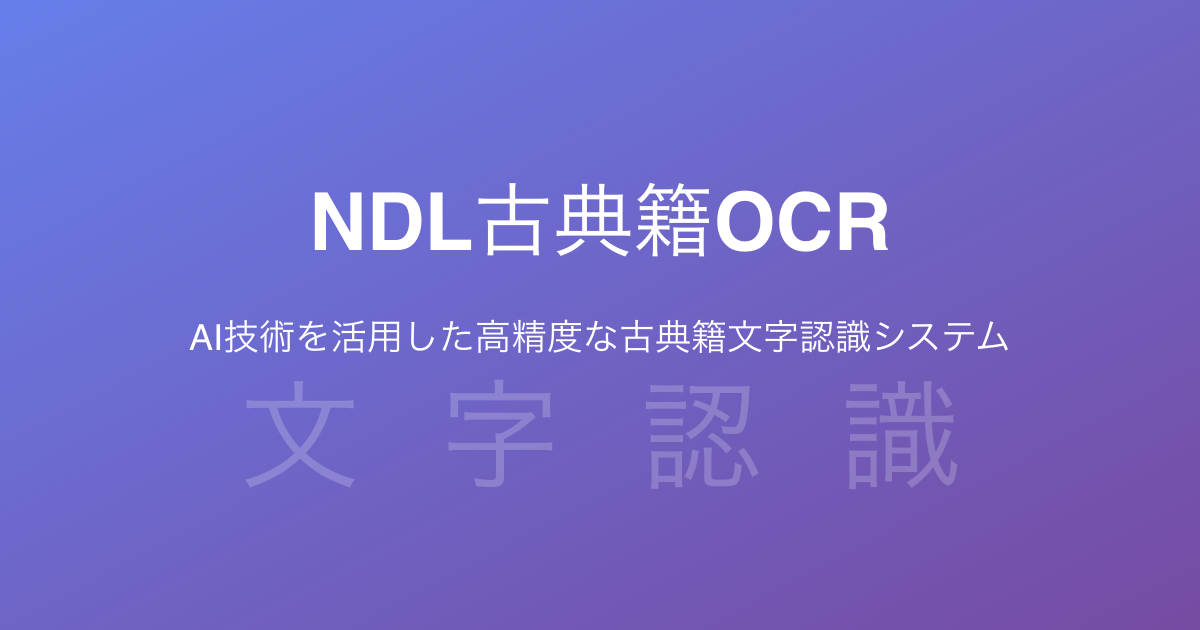
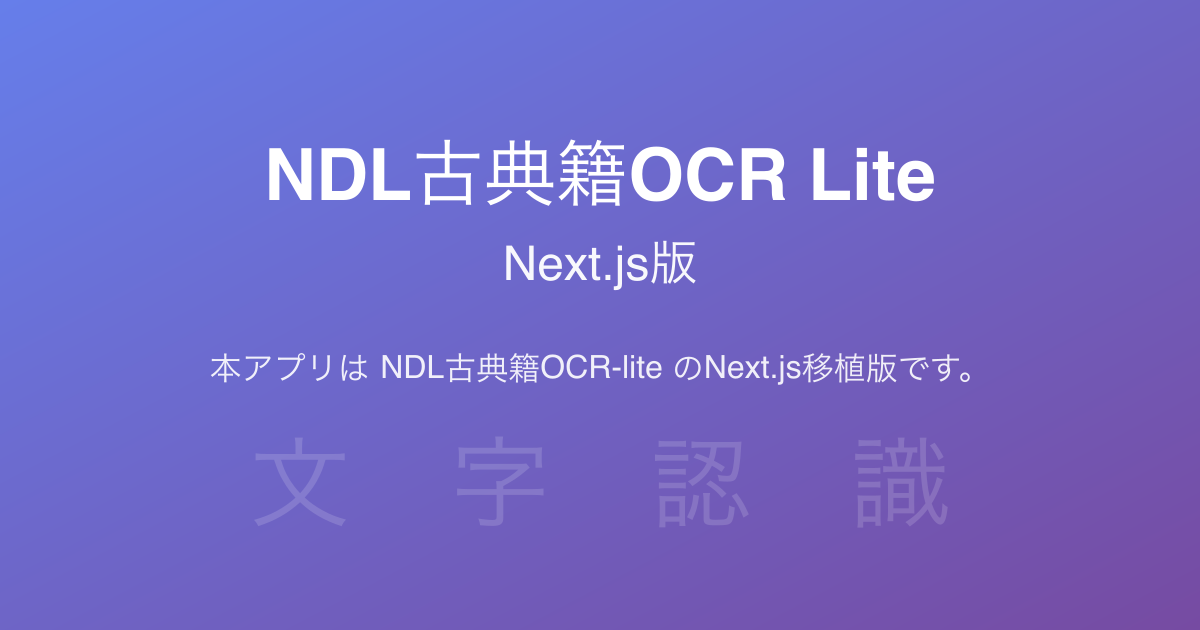
Update OGP and Twitter Card metadata
- Update title to "NDL古典籍OCR Lite Next.js版"
- Update description to "本アプリは NDL古典籍OCR-lite のNext.js移植版です。"
- Update English title to "NDL Koten OCR Lite Next.js Edition"
- Update English description to "This app is a Next.js port of NDL Koten OCR-lite."
- Fix siteName in OpenGraph to use consistent title
- Set Twitter card type to summary_large_image
- Set Twitter site and creator to @NDLJP
- Regenerate OG image with updated text

🤖 Generated with [Claude Code](https://claude.ai/code)

diff --git a/apps/web/scripts/generate-icons-simple.js b/apps/web/scripts/generate-icons-simple.js
@@ -47,13 +47,14 @@ async function generateIcons() {
     </linearGradient>
   </defs>
   <rect width="1200" height="630" fill="url(#gradient)"/>
-  <text x="600" y="250" font-family="sans-serif" font-size="80" font-weight="bold" text-anchor="middle" fill="white">NDL古典籍OCR</text>
-  <text x="600" y="350" font-family="sans-serif" font-size="36" text-anchor="middle" fill="white">AI技術を活用した高精度な古典籍文字認識システム</text>
-  <g opacity="0.2">
-    <text x="300" y="480" font-family="sans-serif" font-size="120" font-weight="bold" text-anchor="middle" fill="white">文</text>
-    <text x="500" y="480" font-family="sans-serif" font-size="120" font-weight="bold" text-anchor="middle" fill="white">字</text>
-    <text x="700" y="480" font-family="sans-serif" font-size="120" font-weight="bold" text-anchor="middle" fill="white">認</text>
-    <text x="900" y="480" font-family="sans-serif" font-size="120" font-weight="bold" text-anchor="middle" fill="white">識</text>
+  <text x="600" y="200" font-family="sans-serif" font-size="72" font-weight="bold" text-anchor="middle" fill="white">NDL古典籍OCR Lite</text>
+  <text x="600" y="280" font-family="sans-serif" font-size="48" text-anchor="middle" fill="rgba(255,255,255,0.95)">Next.js版</text>
+  <text x="600" y="380" font-family="sans-serif" font-size="32" text-anchor="middle" fill="rgba(255,255,255,0.9)">本アプリは NDL古典籍OCR-lite のNext.js移植版です。</text>
+  <g opacity="0.15">
+    <text x="300" y="520" font-family="sans-serif" font-size="100" font-weight="bold" text-anchor="middle" fill="white">文</text>
+    <text x="500" y="520" font-family="sans-serif" font-size="100" font-weight="bold" text-anchor="middle" fill="white">字</text>
+    <text x="700" y="520" font-family="sans-serif" font-size="100" font-weight="bold" text-anchor="middle" fill="white">認</text>
+    <text x="900" y="520" font-family="sans-serif" font-size="100" font-weight="bold" text-anchor="middle" fill="white">識</text>
   </g>
 </svg>`;
 

diff --git a/apps/web/src/app/[locale]/metadata.ts b/apps/web/src/app/[locale]/metadata.ts
@@ -41,7 +41,7 @@ export async function generateMetadata({
       title,
       description,
       url: currentUrl,
-      siteName: title,
+      siteName: 'NDL古典籍OCR Lite Next.js版',
       images: [
         {
           url: `${siteUrl}/og-image.png`,
